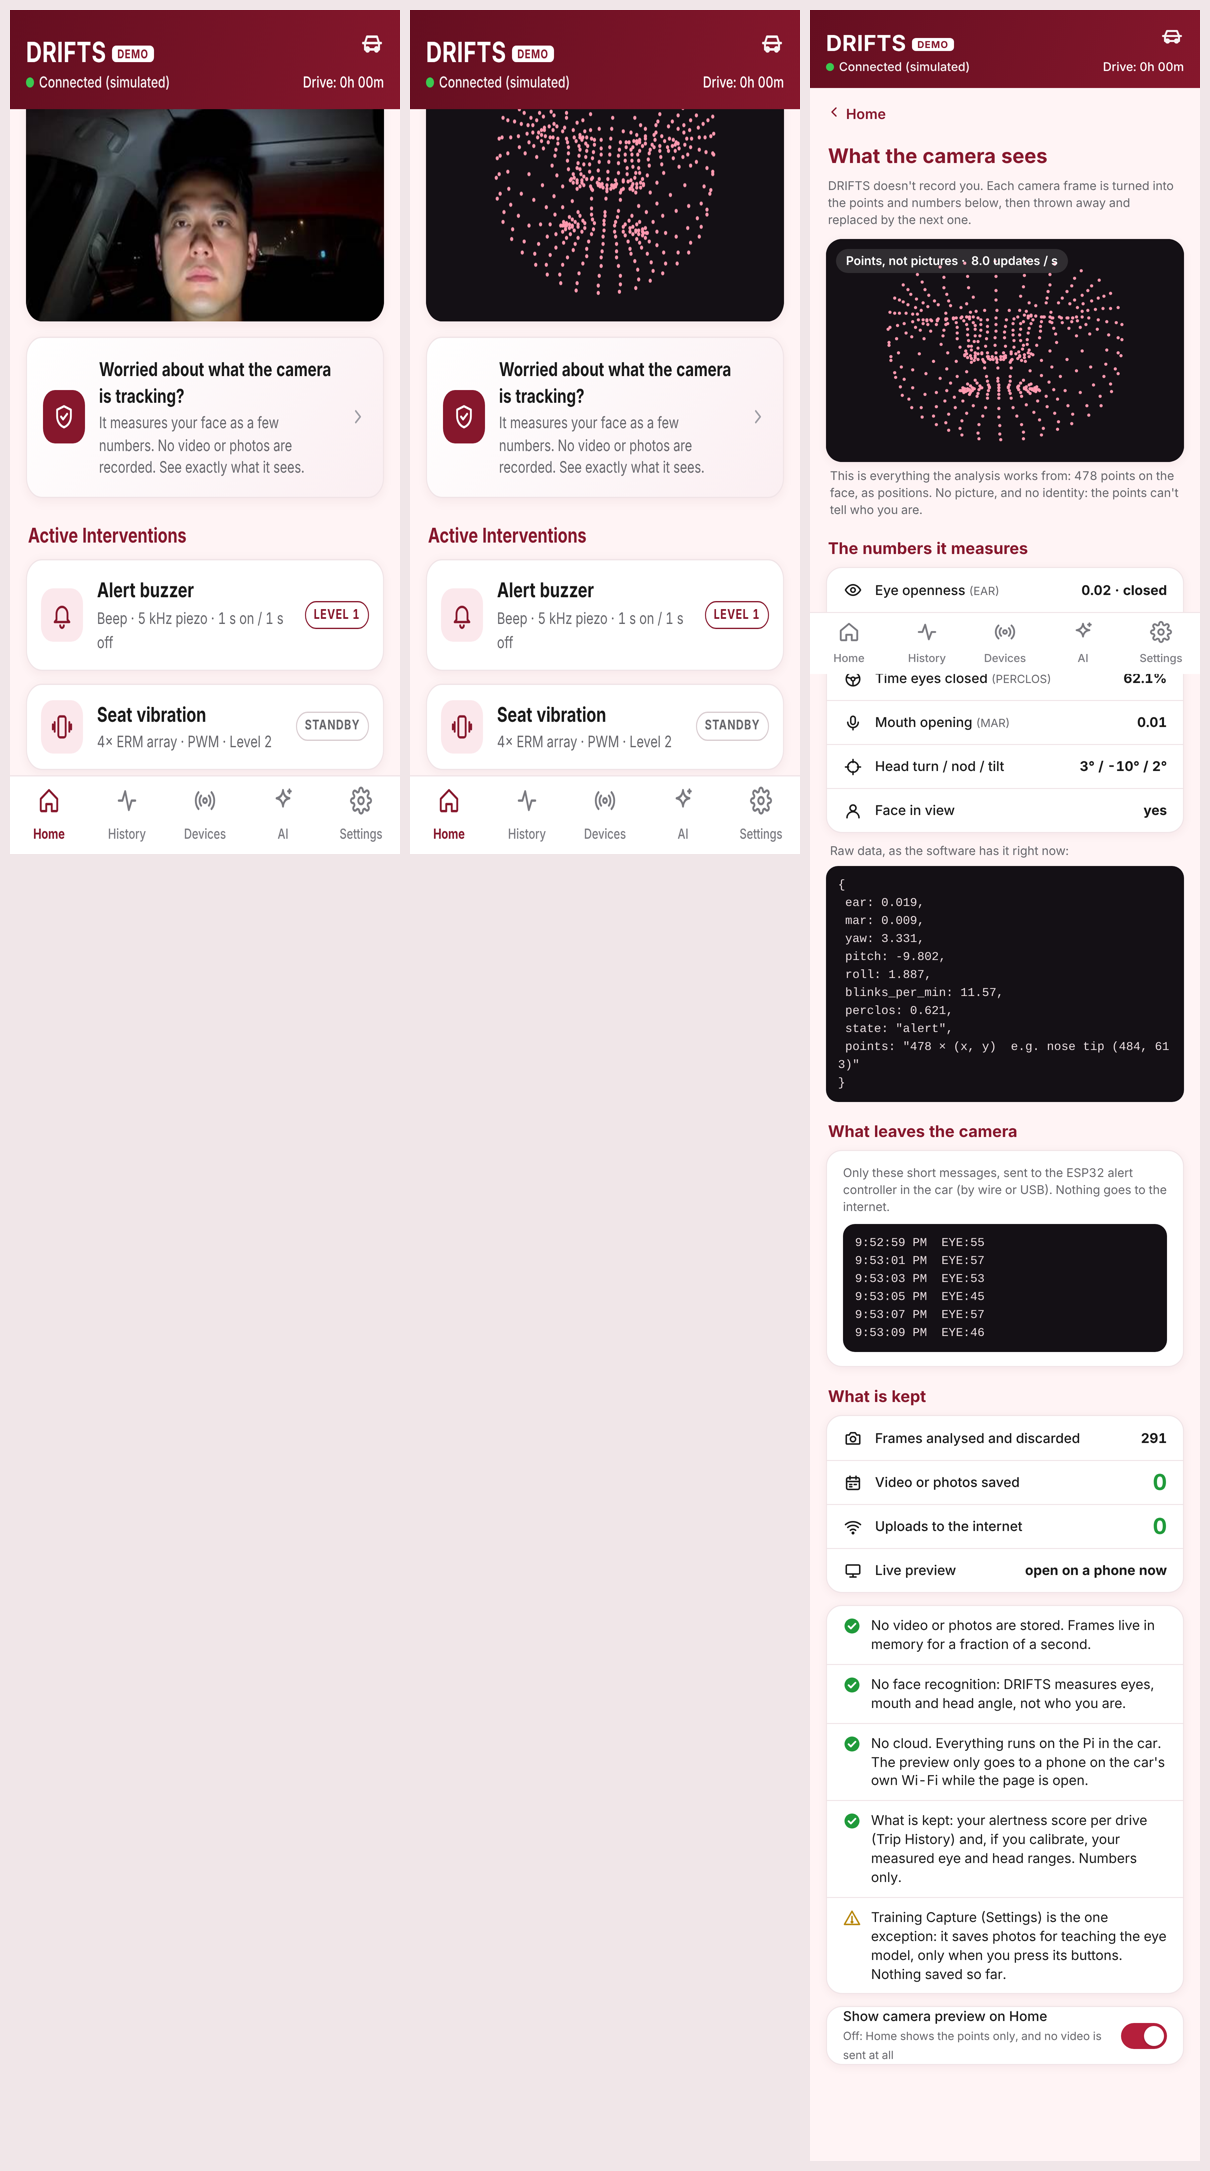
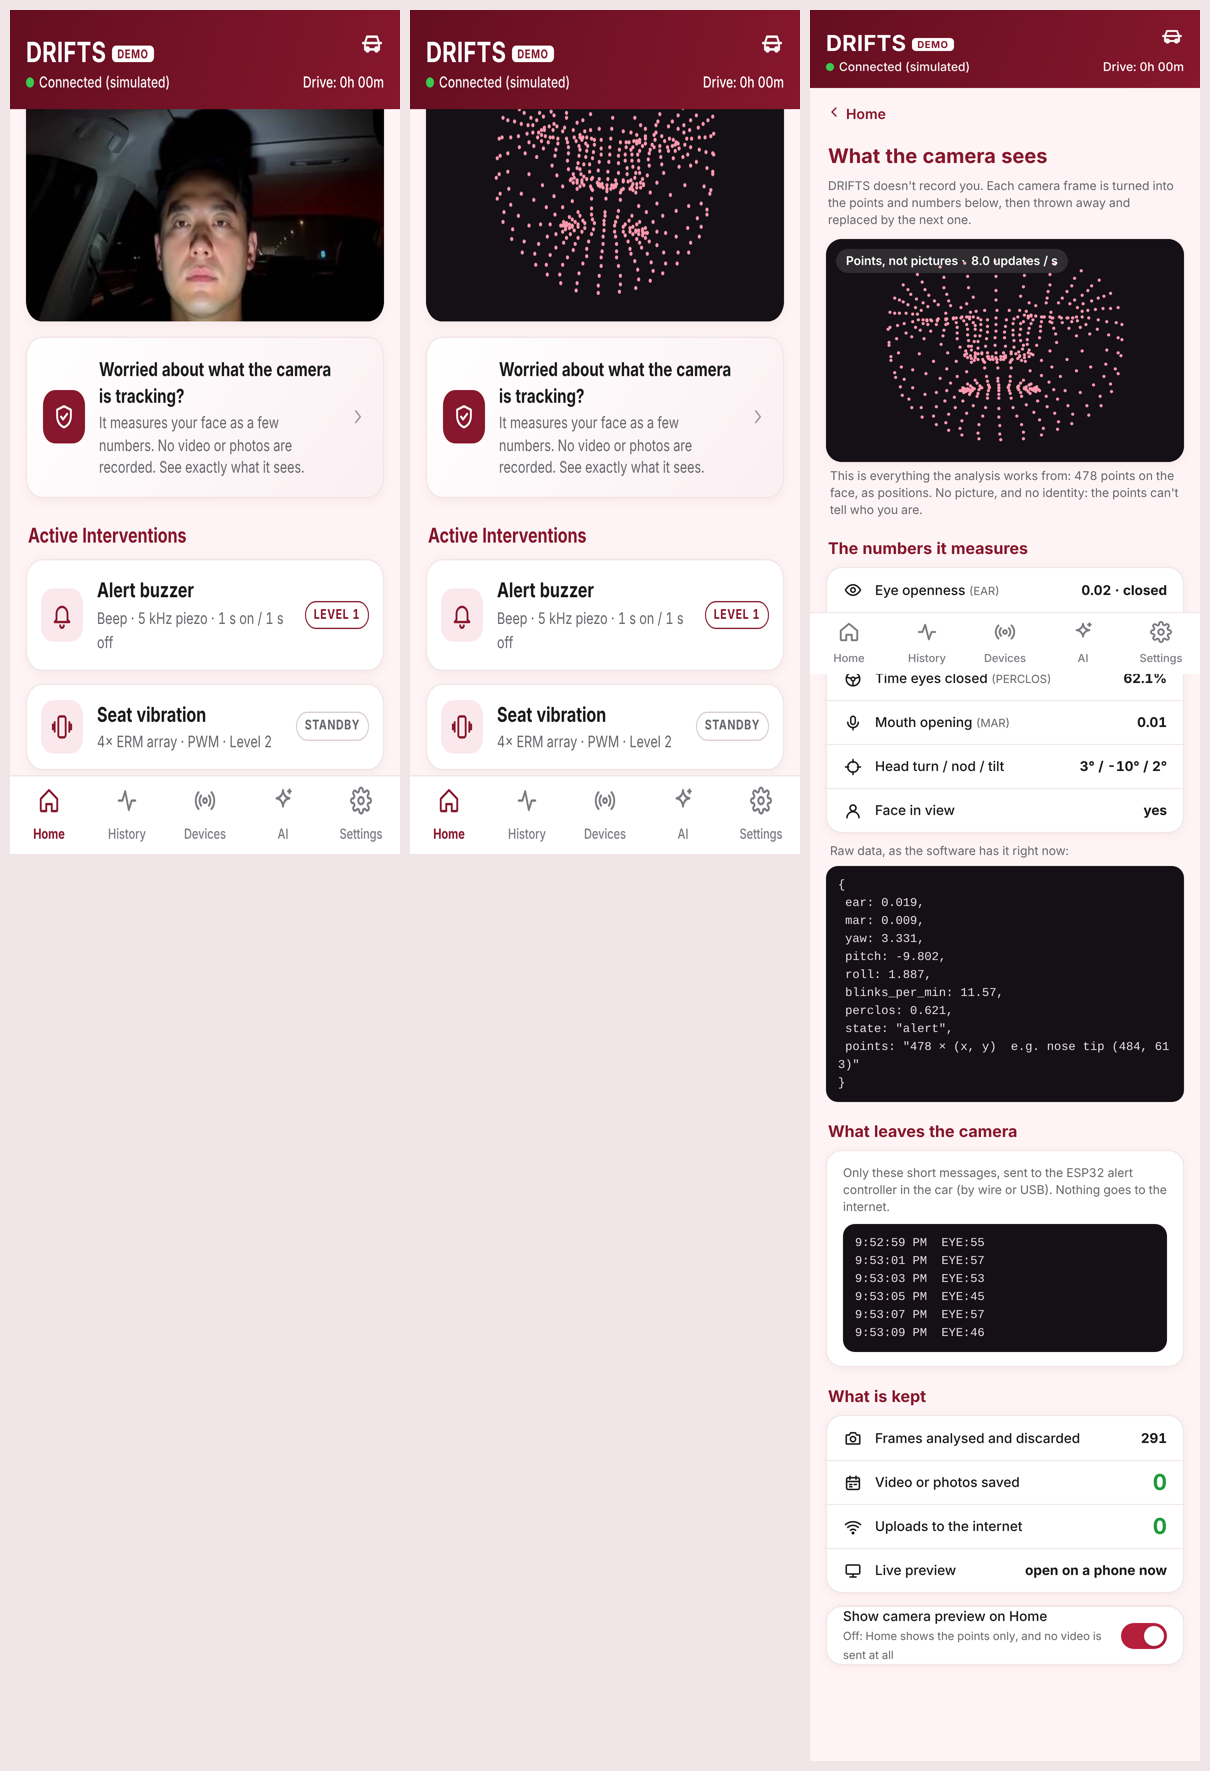
Privacy page: remove the facts card
The numbers, the messages sent and the 'What is kept' counters already
show it; the docs keep the written explanation.

Changed region(s): [[0.0, 0.0, 1.0, 0.9627]]

diff --git a/Raspberry/drifts/dashboard.html b/Raspberry/drifts/dashboard.html
@@ -186,8 +186,6 @@ color:#fff;font-size:12px;font-weight:600;padding:4px 10px;border-radius:99px}
 .pts .none{position:absolute;inset:0;display:flex;align-items:center;justify-content:center;color:#C9B9BE;font-size:13px}
 .raw{font:12px/1.5 ui-monospace,Menlo,Consolas,monospace;background:#141015;color:#E9DDE0;border-radius:12px;padding:10px 12px;
 white-space:pre-wrap;word-break:break-all;margin:0}
-.fact{display:flex;gap:10px;align-items:flex-start;padding:10px 16px;border-top:1px solid var(--line);font-size:13.5px}
-.fact:first-child{border-top:0}.fact .i{color:var(--green-ink);display:flex;margin-top:1px}.fact .i.warn{color:var(--yellow-ink)}
 .big0{font-size:22px;font-weight:700;color:var(--green-ink)}
 /* bottom navigation */
 nav{position:fixed;bottom:0;left:50%;transform:translateX(-50%);width:100%;max-width:430px;background:#fff;
@@ -488,13 +486,6 @@ nav a.on{color:var(--maroon);font-weight:700}
   <div class="row"><span class="i" data-i="cal"></span><span class="l">Video or photos saved</span><span class="v"><span class="big0" id="pv-saved">0</span></span></div>
   <div class="row"><span class="i" data-i="wifi"></span><span class="l">Uploads to the internet</span><span class="v"><span class="big0">0</span></span></div>
   <div class="row"><span class="i" data-i="monitor"></span><span class="l">Live preview</span><span class="v" id="pv-preview">--</span></div>
- </div>
- <div class="card" style="margin-top:12px">
-  <div class="fact"><span class="i" data-i="check" data-s="18"></span><span>No video or photos are stored. Frames live in memory for a fraction of a second.</span></div>
-  <div class="fact"><span class="i" data-i="check" data-s="18"></span><span>No face recognition: DRIFTS measures eyes, mouth and head angle, not who you are.</span></div>
-  <div class="fact"><span class="i" data-i="check" data-s="18"></span><span>No cloud. Everything runs on the Pi in the car. The preview only goes to a phone on the car's own Wi-Fi while the page is open.</span></div>
-  <div class="fact"><span class="i" data-i="check" data-s="18"></span><span>What is kept: your alertness score per drive (Trip History) and, if you calibrate, your measured eye and head ranges. Numbers only.</span></div>
-  <div class="fact"><span class="i warn" data-i="warn" data-s="18"></span><span id="pv-train">Training Capture (Settings) is the one exception: it saves photos for teaching the eye model, only when you press its buttons.</span></div>
  </div>
  <div class="card" style="margin-top:12px">
   <div class="row"><span class="l">Show camera preview on Home<br><small style="color:var(--muted);font-weight:400">Off: Home shows the points only, and no video is sent at all</small></span>
@@ -842,8 +833,6 @@ async function privacyTick(){const onPage=$("t-privacy").classList.contains("on"
  $("pv-sent").textContent=(pv.sent||[]).length?pv.sent.slice(-6).map(x=>`${tf(x.t)}  ${x.msg}`).join("\n"):"(nothing sent yet)";
  $("pv-frames").textContent=pv.frames_analysed.toLocaleString();$("pv-saved").textContent=pv.frames_saved;
  $("pv-saved").style.color=pv.frames_saved?"var(--yellow-ink)":"";
- $("pv-train").textContent=pv.frames_saved?`Training Capture saved ${pv.frames_saved} photo(s) to ${pv.saved_dir}. It only saves when its buttons are pressed.`:
-  "Training Capture (Settings) is the one exception: it saves photos for teaching the eye model, only when you press its buttons. Nothing saved so far.";
  $("pv-preview").textContent=pv.preview_open?"open on a phone now":"off (no video sent)"}
 setInterval(privacyTick,500);
 setInterval(tick,500);tick();
